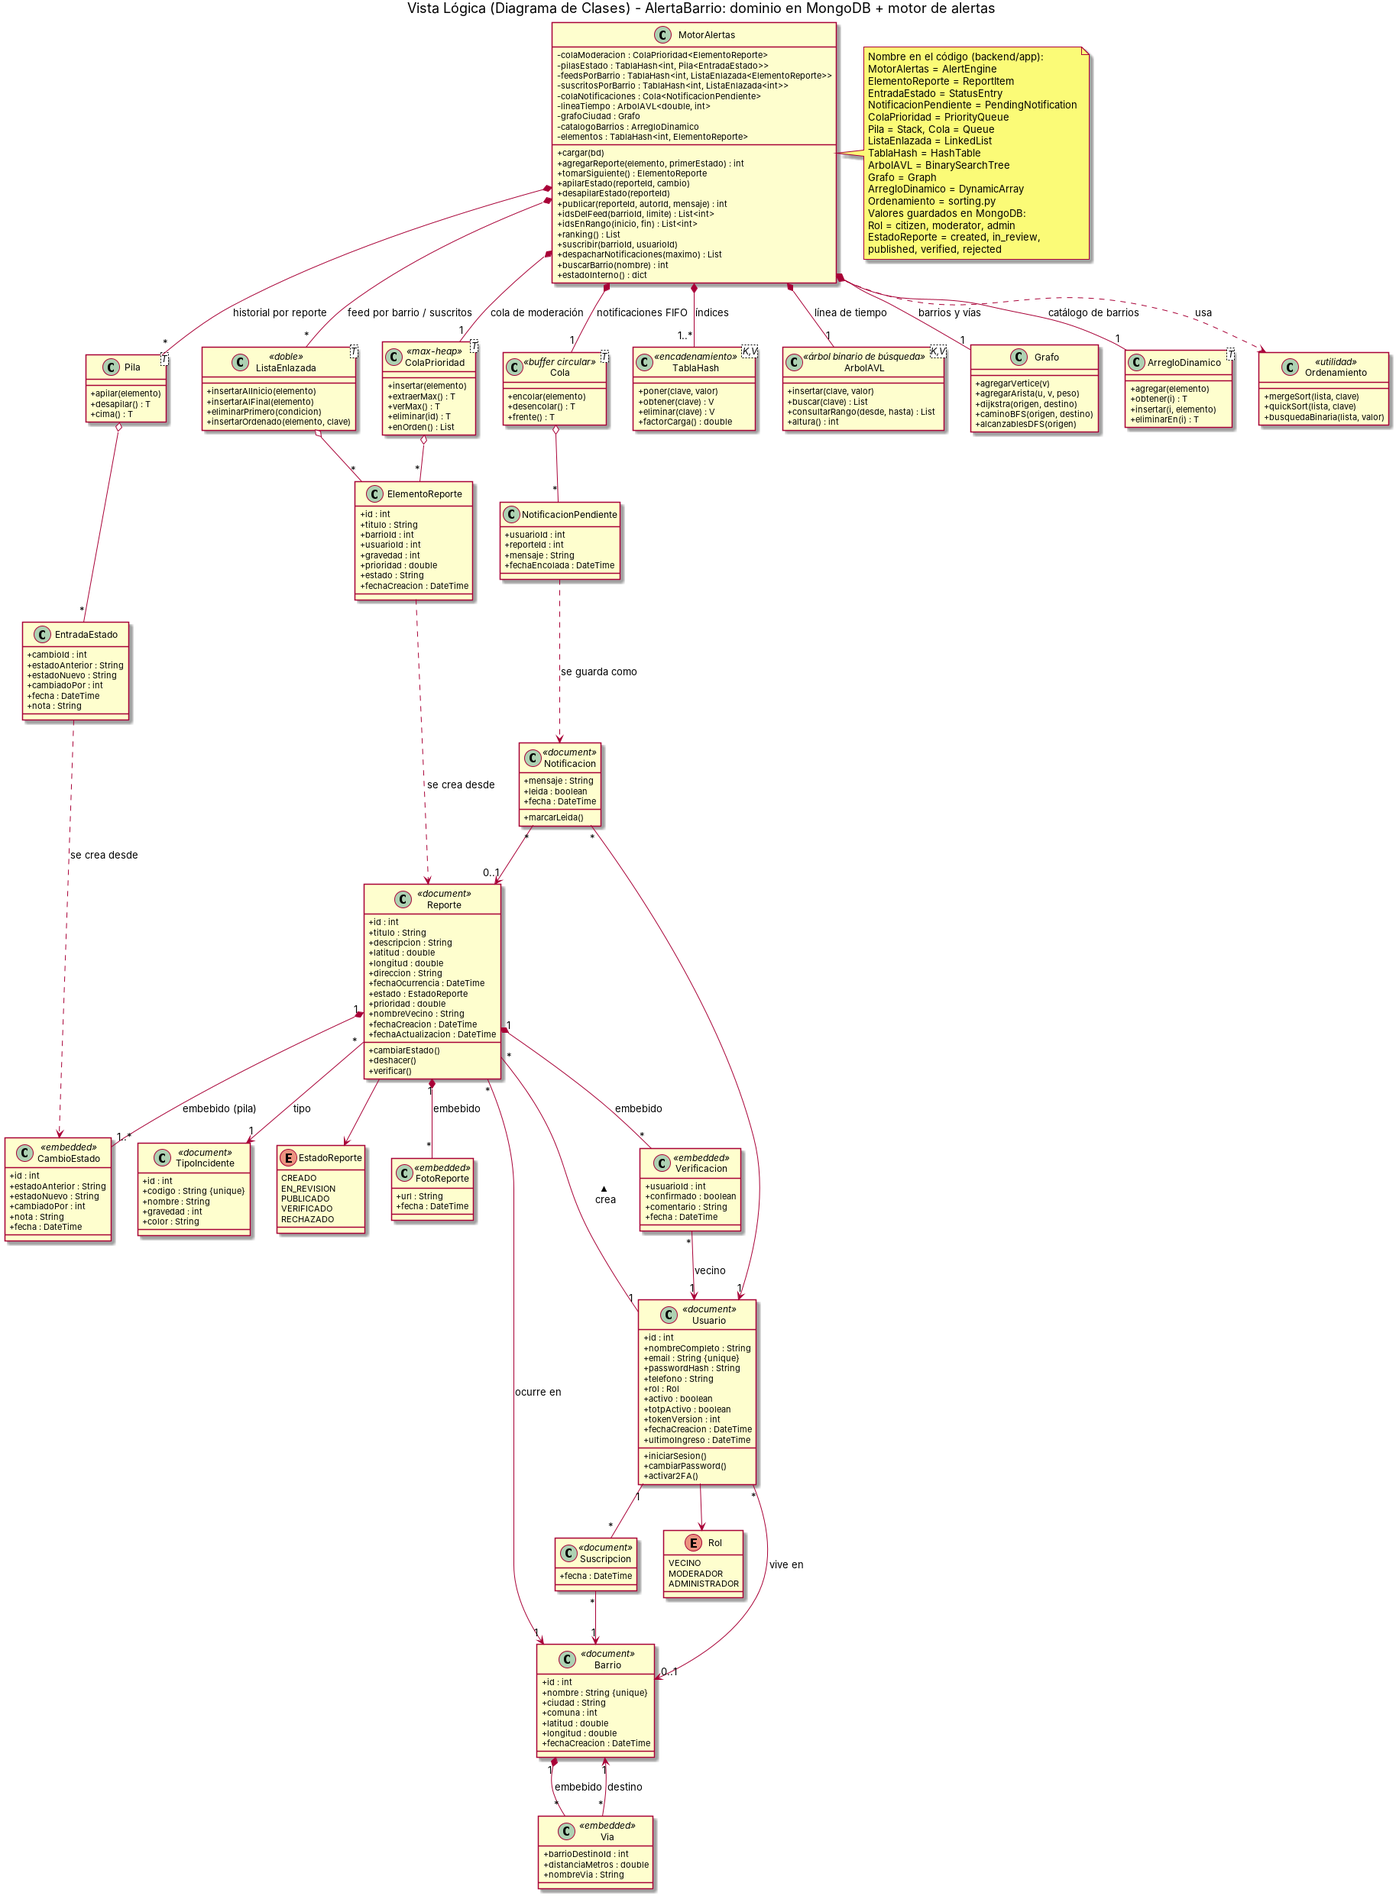
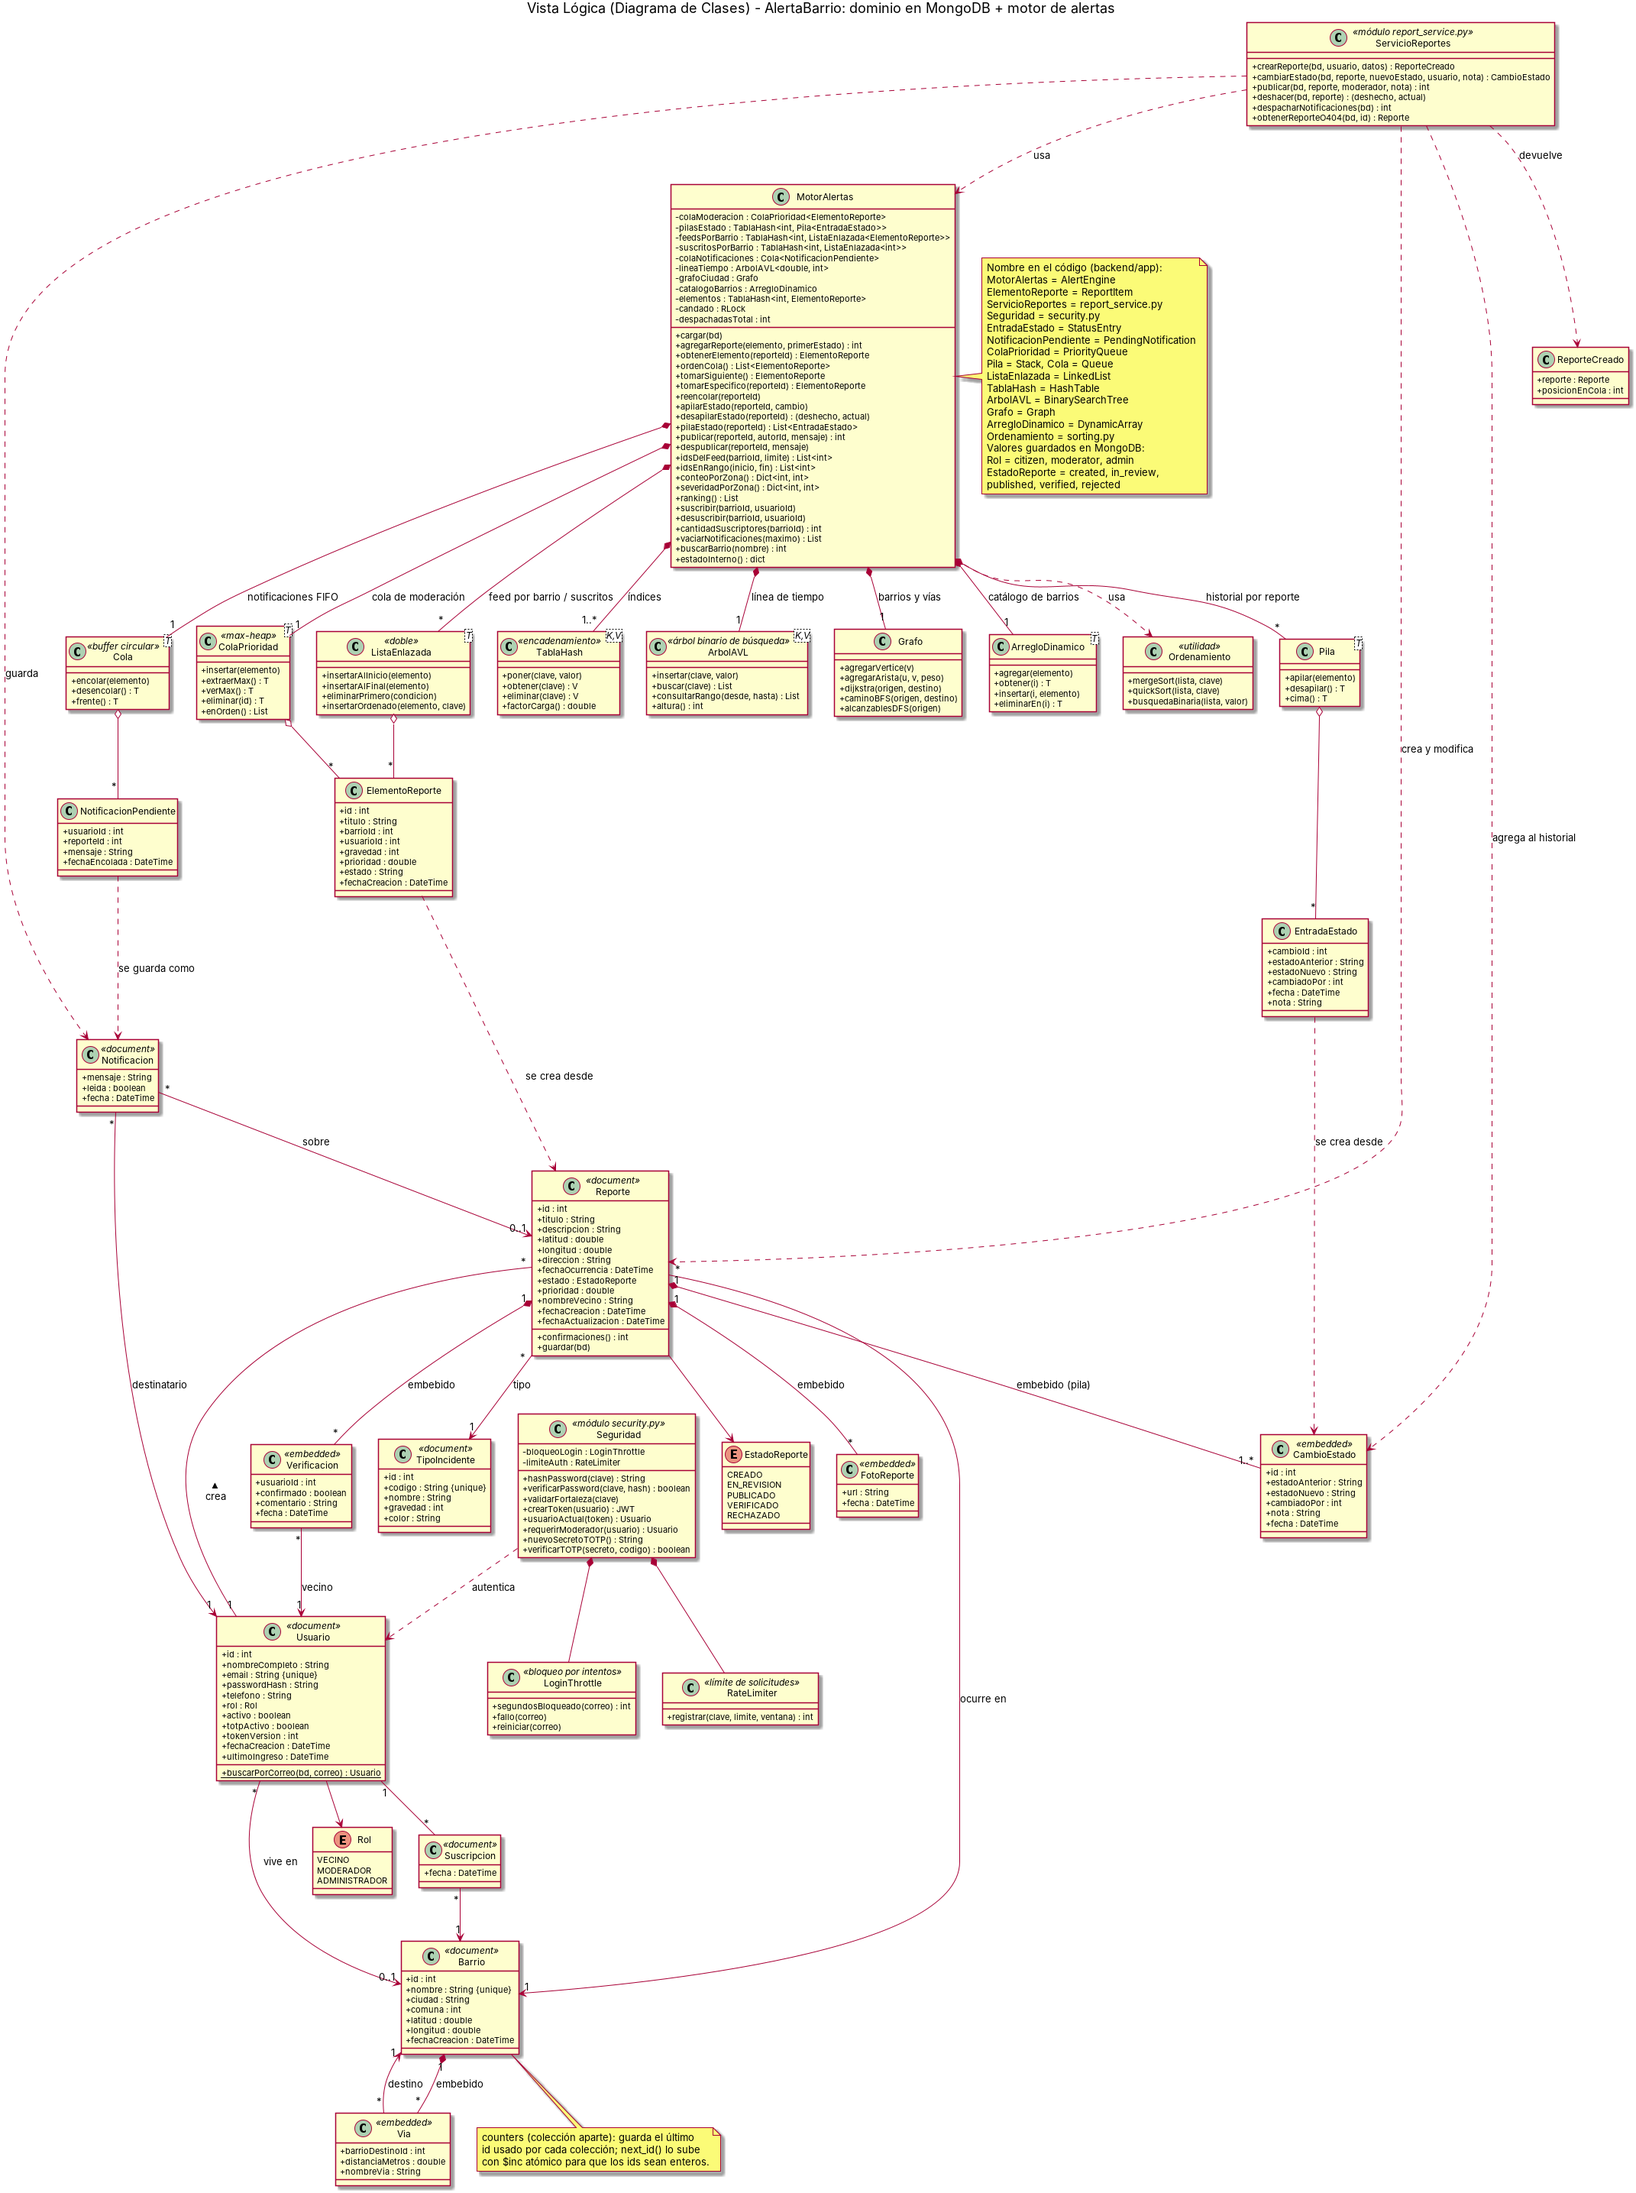
docs: vista lógica con servicios y operaciones del motor

diff --git a/docs/wiki/06-Arquitectura-4+1-Vistas.md b/docs/wiki/06-Arquitectura-4+1-Vistas.md
@@ -62,16 +62,16 @@ Diagrama de clases con dos partes: abajo el **dominio** guardado en MongoDB y ar
 
 | Clase | Estereotipo (colección) | Atributos principales | Métodos / comportamiento |
 |-------|-------------------------|-----------------------|--------------------------|
-| Usuario | «document» (`users`) | id, nombreCompleto, email, passwordHash, telefono, rol, activo, totpActivo, tokenVersion, fechaCreacion, ultimoIngreso | iniciarSesion(), cambiarPassword(), activar2FA() |
+| Usuario | «document» (`users`) | id, nombreCompleto, email, passwordHash, telefono, rol, activo, totpActivo, tokenVersion, fechaCreacion, ultimoIngreso | buscarPorCorreo() (estático) |
 | Barrio | «document» (`neighborhoods`) | id, nombre, ciudad, comuna, latitud, longitud, vias[] | — |
 | Via | «embedded» (en Barrio) | barrioDestinoId, distanciaMetros, nombreVia | — |
 | TipoIncidente | «document» (`incident_types`) | codigo, nombre, gravedad (1–5), color | — |
-| Reporte | «document» (`reports`) | id, titulo, descripcion, latitud, longitud, direccion, fechaOcurrencia, estado, prioridad, nombreVecino, fechaCreacion, fechaActualizacion | cambiarEstado(), deshacer(), verificar() |
+| Reporte | «document» (`reports`) | id, titulo, descripcion, latitud, longitud, direccion, fechaOcurrencia, estado, prioridad, nombreVecino, fechaCreacion, fechaActualizacion | confirmaciones(), guardar() |
 | FotoReporte | «embedded» (en Reporte) | url, fecha | — |
 | CambioEstado | «embedded» (en Reporte) | id, estadoAnterior, estadoNuevo, cambiadoPor, nota, fecha | — |
 | Verificacion | «embedded» (en Reporte) | usuarioId, confirmado, comentario, fecha | — |
 | Suscripcion | «document» (`subscriptions`) | usuarioId, barrioId, fecha | — |
-| Notificacion | «document» (`notifications`) | mensaje, leida, fecha | marcarLeida() |
+| Notificacion | «document» (`notifications`) | mensaje, leida, fecha; destinatario (Usuario) y reporte | — |
 
 **Cómo se pasaron las relaciones a MongoDB:**
 
@@ -82,9 +82,17 @@ Diagrama de clases con dos partes: abajo el **dominio** guardado en MongoDB y ar
 | **Rol** | Un campo con valor fijo | `rol`: VECINO, MODERADOR o ADMINISTRADOR (en MongoDB: citizen, moderator, admin) |
 
 - Los **ids son enteros** (1, 2, 3…), generados con la colección `counters`, para no cambiar las URLs de la API ni las estructuras de datos.
+- La colección `counters` guarda el último id usado por cada colección; `next_id()` lo sube con `$inc` atómico.
 - Las clases embebidas no tienen colección ni id propio (salvo *CambioEstado*, que guarda un id para poder deshacer exactamente ese cambio).
 
-**Motor de alertas (mismo diagrama, parte de arriba):** al arrancar, el backend carga los datos en *MotorAlertas* (`AlertEngine` en el código), que usa las estructuras propias: ColaPrioridad (heap), Pila, Cola, ListaEnlazada, TablaHash, ArbolAVL, Grafo y ArregloDinamico. *ElementoReporte* se crea desde *Reporte*, *EntradaEstado* desde *CambioEstado* y cada *NotificacionPendiente* se guarda como *Notificacion*. Los diagramas usan nombres en español; la nota del diagrama indica el nombre de cada clase en el código.
+**Dónde vive el comportamiento:** los cambios de estado, publicar, deshacer y despachar notificaciones no son métodos de *Reporte*: están en **ServicioReportes** (`report_service.py`). El hash de contraseñas, el JWT, el TOTP, el bloqueo por intentos (`LoginThrottle`) y el límite de solicitudes (`RateLimiter`) están en **Seguridad** (`security.py`). En el código son módulos de funciones; en el diagrama aparecen como clases con estereotipo «módulo».
+
+| Clase | Módulo | Operaciones |
+|-------|--------|-------------|
+| ServicioReportes | `services/report_service.py` | crearReporte, cambiarEstado, publicar, deshacer, despacharNotificaciones, obtenerReporteO404 |
+| Seguridad | `security.py` | hashPassword, verificarPassword, validarFortaleza, crearToken, usuarioActual, requerirModerador, nuevoSecretoTOTP, verificarTOTP |
+
+**Motor de alertas (mismo diagrama, parte de arriba):** al arrancar, el backend carga los datos en *MotorAlertas* (`AlertEngine` en el código), que usa las estructuras propias: ColaPrioridad (heap), Pila, Cola, ListaEnlazada, TablaHash, ArbolAVL, Grafo y ArregloDinamico. *ElementoReporte* se crea desde *Reporte*, *EntradaEstado* desde *CambioEstado* y cada *NotificacionPendiente* se guarda como *Notificacion*. Además de cargar, agregar y tomar el siguiente, el motor tiene: obtenerElemento, ordenCola, tomarEspecifico, reencolar, pilaEstado, despublicar, conteoPorZona, severidadPorZona, desuscribir, cantidadSuscriptores y vaciarNotificaciones; guarda `despachadasTotal` y un `RLock` para que las peticiones simultáneas no choquen. Los diagramas usan nombres en español; la nota del diagrama indica el nombre de cada clase en el código.
 
 ---
 
